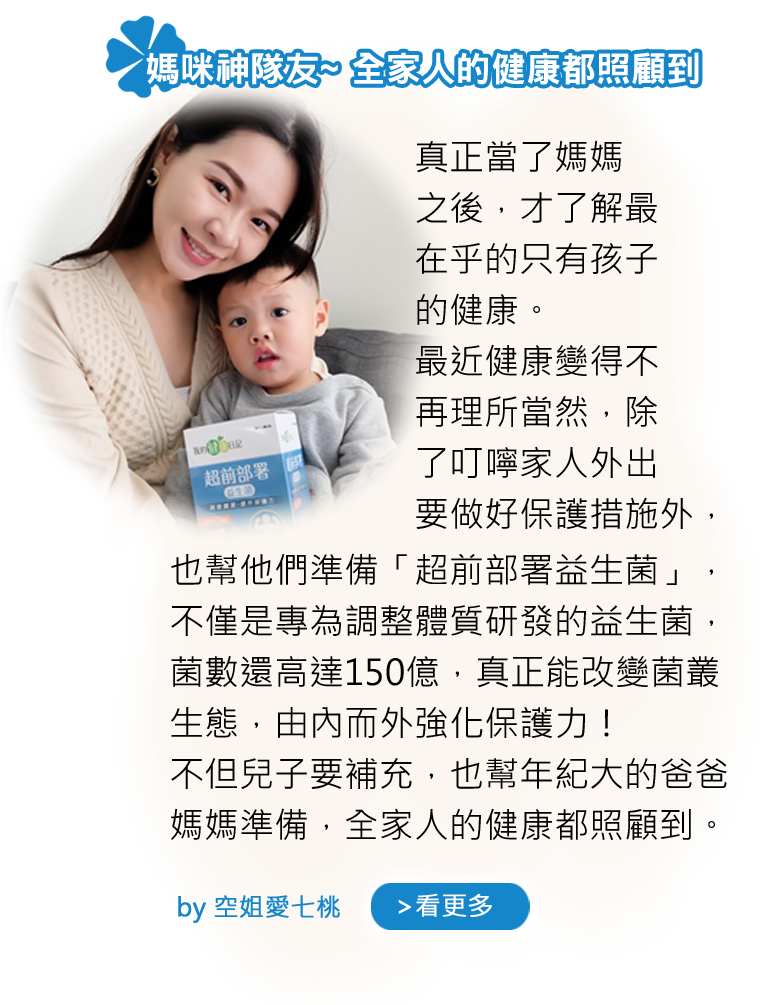
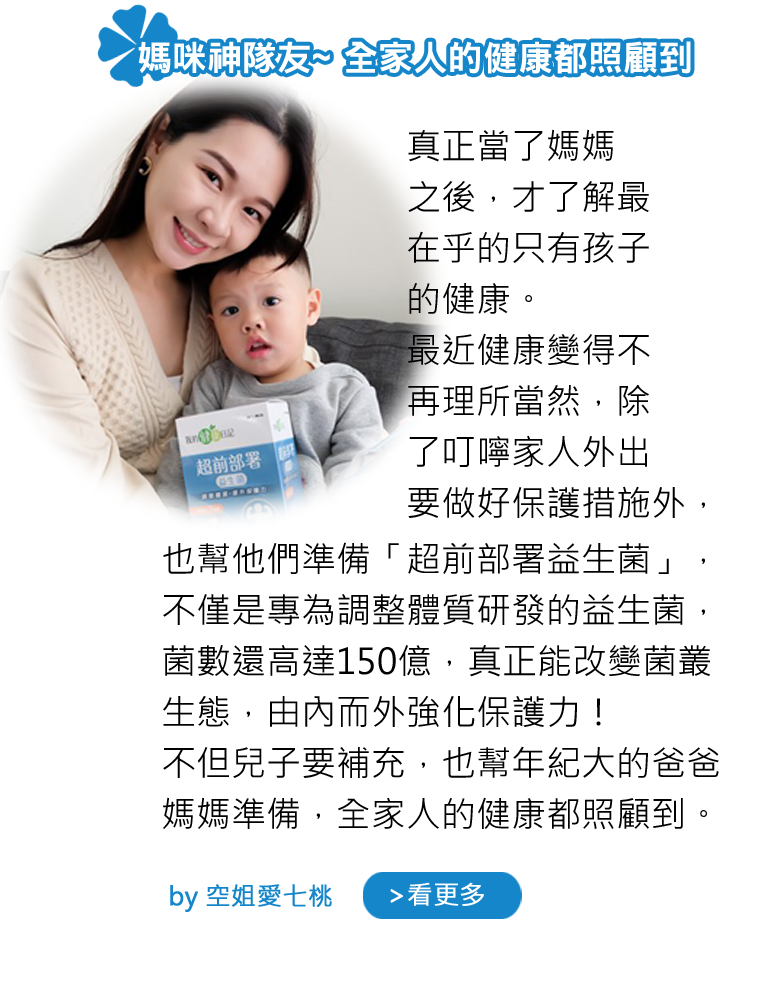
sad

Changed region(s): [[0.0, 0.0, 0.9684, 0.8328], [0.2118, 0.8637, 0.6961, 0.9254], [0.0303, 0.3393, 0.0605, 0.3701]]

diff --git a/css/style.css b/css/style.css
@@ -1269,7 +1269,7 @@ body{
         cursor: pointer;
         position: relative;
         transition: all .7s;
-        margin-left: -40px;
+        margin-left: -30px;
     }
     .witness_content .win_right2 img{
         width: 100%;
